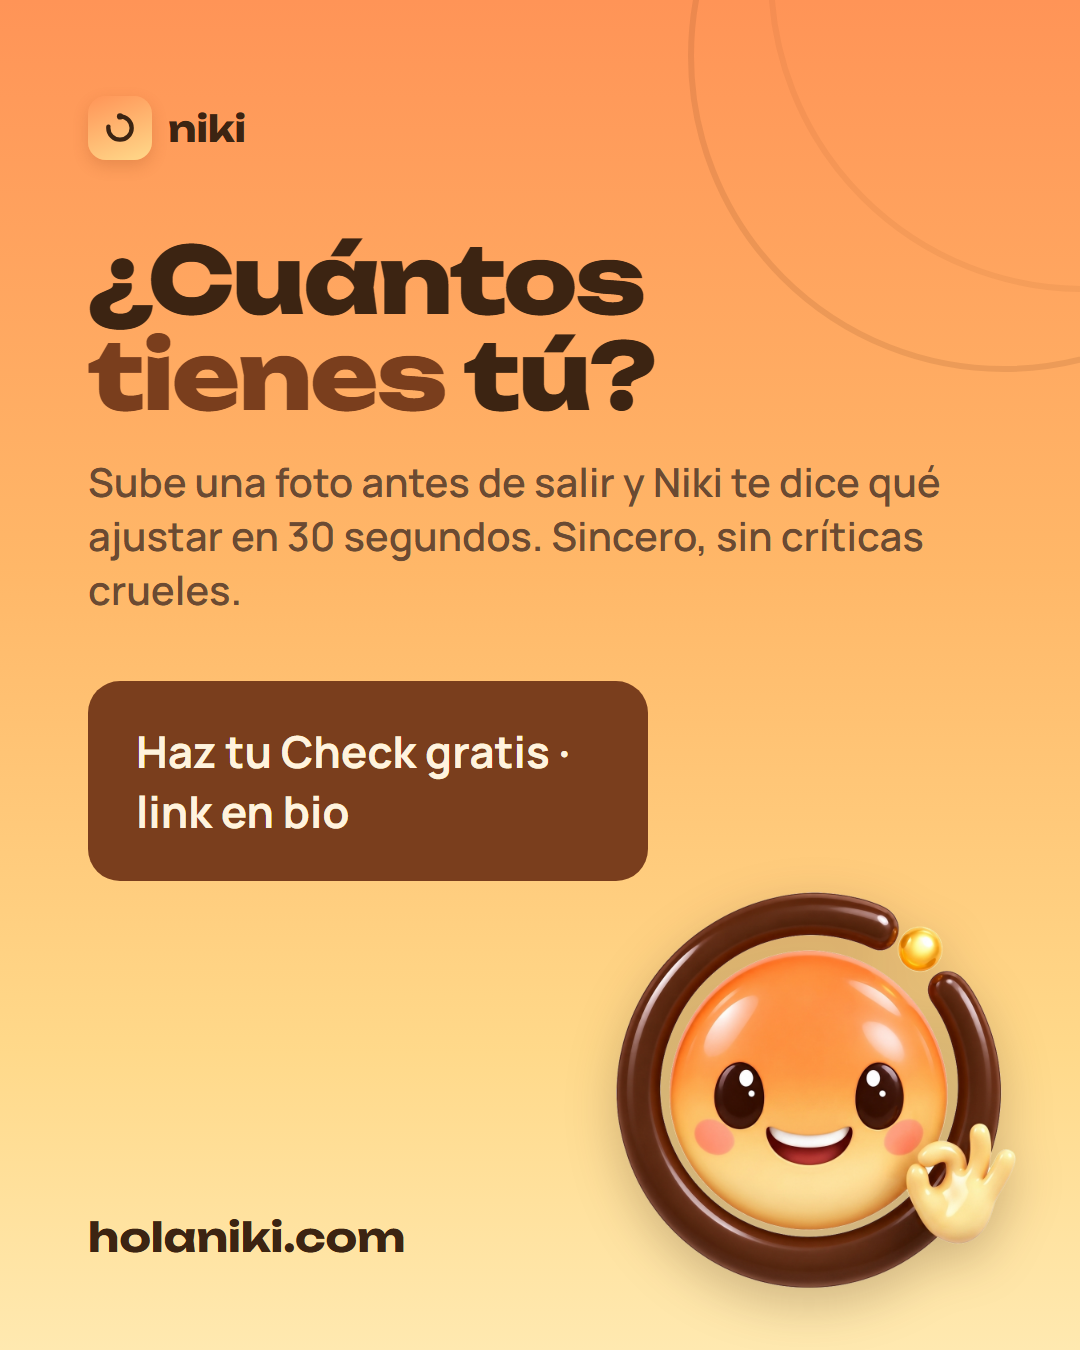
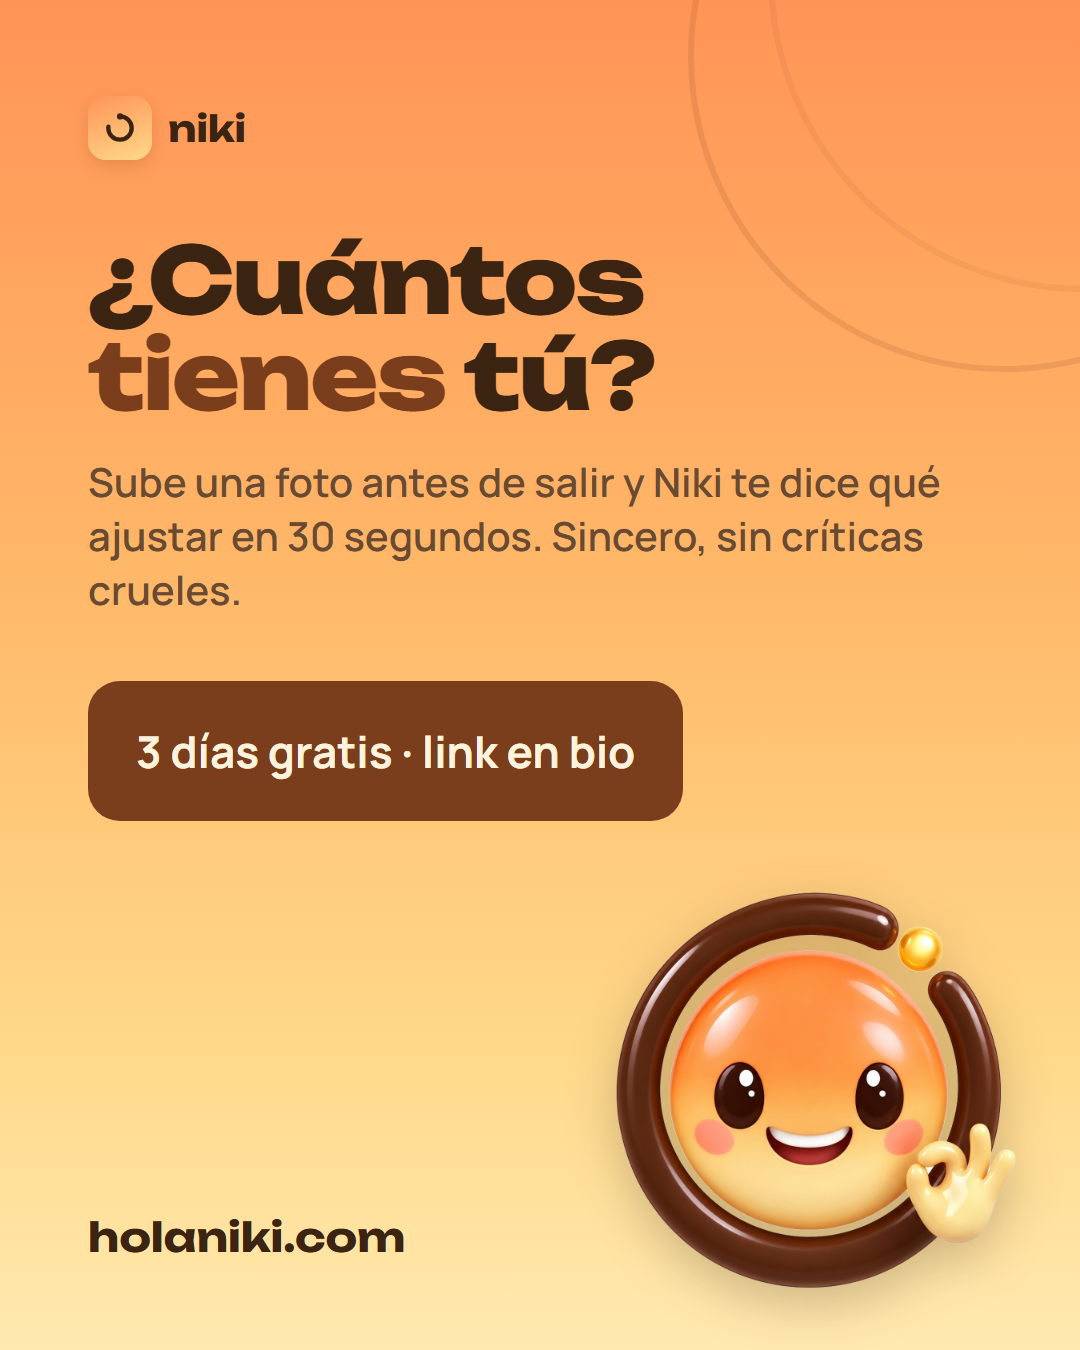
fix: Dia 3 y semana 1 prometen '3 dias gratis' en vez de 'Check gratis' (el Check requiere iniciar la prueba)

Changed region(s): [[0.0611, 0.4978, 0.6417, 0.6533]]

diff --git a/contenido/aviso-previo/aviso-previo.html b/contenido/aviso-previo/aviso-previo.html
@@ -59,7 +59,7 @@
   <span class="etiqueta">Ya estoy aquí</span>
   <h1>¡Ya <em>llegué!</em></h1>
   <p class="sub">Sube tu foto, dime a dónde vas y en <b>30 segundos</b> te digo qué ajustar.</p>
-  <div class="cta">Haz tu Check gratis</div>
+  <div class="cta">Pruébalo 3 días gratis</div>
   <img class="niki" src="niki/niki-celebrando.png" alt="" style="width:480px">
   <p class="pie url" style="color:var(--text)">holaniki.com</p>
 </section>
@@ -89,7 +89,7 @@
   <span class="etiqueta">Ya estoy aquí</span>
   <h1>¡Ya <em>llegué!</em></h1>
   <p class="sub">Sube tu foto, dime a dónde vas y en <b>30 segundos</b> te digo qué ajustar.</p>
-  <div class="cta">Haz tu Check gratis</div>
+  <div class="cta">Pruébalo 3 días gratis</div>
   <img class="niki" src="niki/niki-celebrando.png" alt="">
   <p class="pie url" style="color:var(--text)">holaniki.com</p>
 </section>

diff --git a/contenido/semana-01/carrusel-entrevista.html b/contenido/semana-01/carrusel-entrevista.html
@@ -90,7 +90,7 @@
   <div class="marca"><span class="chip"><svg width="32" height="32" viewBox="0 0 52 52" fill="none"><circle cx="26" cy="26" r="19" stroke="#3C2412" stroke-width="7" stroke-linecap="round" stroke-dasharray="119.4" stroke-dashoffset="28" transform="rotate(-90 26 26)"/><circle cx="26" cy="7.2" r="5" fill="#3C2412"/></svg></span>niki</div>
   <h1>¿Cuántos <em>tienes</em> tú?</h1>
   <p class="sub">Sube una foto antes de salir y Niki te dice qué ajustar en 30 segundos. Sincero, sin críticas crueles.</p>
-  <div class="cta">Haz tu Check gratis · link en bio</div>
+  <div class="cta" style="white-space:nowrap;width:fit-content;max-width:none">3 días gratis · link en bio</div>
   <p class="url" style="position:absolute;left:88px;bottom:88px">holaniki.com</p>
   <img class="niki" src="niki/niki-ok.png" alt="" style="width:400px;bottom:60px">
 </section>

diff --git a/ESTADO.md b/ESTADO.md
@@ -1,5 +1,5 @@
 # ESTADO — Niki (AI Image & Outfit Feedback)
-Última actualización: 2026-10-06 (pre-lanzamiento) | Re-certificación: **73/100 → NO APTO para tráfico PAGADO** (sube de 57; ver "Certificado /100" en Puertas de etapa). Producción = `461f48e`. Hecho hoy: Next 16.3.5→16.4.0 (falla CRÍTICA RCE en next/og) + 0 vulnerabilidades, 404 con marca, kill-switch de IA (`AI_DAILY_BUDGET_USD=0`), índice FK error_log, onboarding y paywall re-revisados → LISTA 36/40·16/20 ambos (2 pasadas), medición anónima del embudo (Vercel Web Analytics + eventos onboarding_inicio / onboarding_resultado / paywall_pago_click — FALTA que el dueño active Analytics en Vercel), auto-QA del embudo en producción (scripts/qa-funnel.mjs). Siguiente: (1) dueño activa Web Analytics en Vercel; (2) programar Día 3 ("¡Ya llegué!") miércoles 7-oct 7 pm (IG+FB Business Suite + TikTok a mano); (3) dueño cambia categoría en IG (Editar perfil → Categoría; si no aparece: cuenta de Empresa), FB (Información → Categorías) y TikTok (app → Configuración → Cuenta → Cuenta de empresa → Categoría) — guía dada 2026-10-06; (4) jueves 8: semana 1 de contenido; (5) para llegar a ≥80 antes de ads: /retener-ingresos (dunning), puente D1-D7 de la prueba (02C), /velocidad (LCP).
+Última actualización: 2026-10-06 (pre-lanzamiento) | Re-certificación: **73/100 → NO APTO para tráfico PAGADO** (sube de 57; ver "Certificado /100" en Puertas de etapa). Producción = `461f48e`. Hecho hoy: Next 16.3.5→16.4.0 (falla CRÍTICA RCE en next/og) + 0 vulnerabilidades, 404 con marca, kill-switch de IA (`AI_DAILY_BUDGET_USD=0`), índice FK error_log, onboarding y paywall re-revisados → LISTA 36/40·16/20 ambos (2 pasadas), medición anónima del embudo (Vercel Web Analytics + eventos onboarding_inicio / onboarding_resultado / paywall_pago_click — FALTA que el dueño active Analytics en Vercel), auto-QA del embudo en producción (scripts/qa-funnel.mjs). Siguiente: (1) dueño activa Web Analytics en Vercel; (2) programar Día 3 ("¡Ya llegué!") miércoles 7-oct 7 pm — CLAIM CORREGIDO 2026-10-06: "Haz tu Check gratis" → "Pruébalo 3 días gratis" (el Check exige iniciar la prueba con tarjeta en Hotmart); también en semana-01 (carrusel lámina 7 + 3 guiones). Re-exportar piezas: node scripts/exportar-aviso.mjs <ids> (IG+FB Business Suite + TikTok a mano); (3) dueño cambia categoría en IG (Editar perfil → Categoría; si no aparece: cuenta de Empresa), FB (Información → Categorías) y TikTok (app → Configuración → Cuenta → Cuenta de empresa → Categoría) — guía dada 2026-10-06; el dueño NO lo encontró → pedirle captura de Editar perfil (IG) y de la Página (FB); (4) jueves 8: semana 1 de contenido; (5) para llegar a ≥80 antes de ads: /retener-ingresos (dunning), puente D1-D7 de la prueba (02C), /velocidad (LCP).
 
 ▶ CIERRE DE SESIÓN 2026-09-22 — TODO GUARDADO Y SUBIDO (working tree limpio, `git push` al día,
 último commit `1abcc6d`). Resumen de lo que se hizo hoy:

diff --git a/contenido/semana-01/GUIONES.md b/contenido/semana-01/GUIONES.md
@@ -33,7 +33,7 @@ videos esta semana (por ejemplo lunes, miércoles y viernes) + el carrusel el do
 | 3 | Captura `resultado.jpg` (zoom al 7.3) | 7.3 de 10 para una cita | "Te da tu puntaje para esa ocasión…" |
 | 4 | Captura `resultado-ejes.jpg` | Outfit · Postura · Actitud | "…y te dice qué ajustar en tu outfit, tu postura y tu actitud." |
 | 5 | Niki celebrando | 3 ajustes. Cero críticas crueles. | "Sincero, pero sin destruirte." |
-| 6 | Niki ok + "holaniki.com" | Haz tu Check gratis · link en bio | "Pruébalo gratis, el link está en mi perfil." |
+| 6 | Niki ok + "holaniki.com" | 3 días gratis · link en bio | "Pruébalo 3 días gratis, el link está en mi perfil." |
 
 **Texto de la publicación:** ¿Tu outfit pasa el vibe check? 👀 Niki califica tu outfit, postura y
 actitud en 30 segundos, según a dónde vas. Sincero, pero sin críticas crueles. Pruébalo gratis:
@@ -52,7 +52,7 @@ link en bio.
 | 2 | Niki pensando | Tú: …¿en serio? | "Pero nadie te dice la verdad sobre cómo te ves, por pena." |
 | 3 | Captura `resultado.jpg` | Hasta que alguien te lo dice en privado | "Yo sí te la digo. En privado, en 30 segundos." |
 | 4 | Captura `resultado-ejes.jpg` | Honesto, sin juzgar tu cara ni tu cuerpo | "Solo lo que puedes cambiar hoy: tu outfit, tu postura y tu actitud." |
-| 5 | Niki saludando + "holaniki.com" | Soy Niki · link en bio | "Soy Niki. Haz tu primer Check gratis, link en mi perfil." |
+| 5 | Niki saludando + "holaniki.com" | Soy Niki · link en bio | "Soy Niki. Pruébame 3 días gratis, link en mi perfil." |
 
 **Texto de la publicación:** Nadie te dice la verdad por pena. Niki sí: en privado, en 30 segundos
 y sin críticas crueles. Solo lo que puedes ajustar hoy. Link en bio.
@@ -74,7 +74,7 @@ Este video está hecho para que te encuentren cuando lo buscan: dura semanas rec
 | 3 | Slide 3 del carrusel | 2 · Hombros atrás al entrar | "Dos: hombros atrás y barbilla nivelada al cruzar la puerta." |
 | 4 | Slide 6 del carrusel | 3 · Primero la formalidad | "Tres: primero la formalidad del lugar, después tu estilo." |
 | 5 | Captura `resultado.jpg` | ¿No sabes si tu look funciona? | "¿No sabes si tu look funciona? Sube tu foto y Niki te lo dice en 30 segundos." |
-| 6 | Niki ok + "holaniki.com" | Check gratis · link en bio | "Link en mi perfil." |
+| 6 | Niki ok + "holaniki.com" | 3 días gratis · link en bio | "Link en mi perfil." |
 
 **Texto de la publicación:** Cómo vestirte para una entrevista de trabajo: 3 ajustes que sí
 cambian cómo te ven. ¿Quieres saber cómo va el tuyo? Niki te lo dice en 30 segundos, link en bio.

diff --git a/contenido/aviso-previo/GUIA.md b/contenido/aviso-previo/GUIA.md
@@ -56,7 +56,7 @@ protagonista.
 > ¡Ya llegué! 🎉
 > Sube tu foto, dime a dónde vas y en 30 segundos te digo qué ajustar en tu outfit, tu postura
 > y tu actitud.
-> Haz tu primer Check gratis: link en mi perfil 🧡
+> Pruébalo 3 días gratis con el plan Anual: link en mi perfil 🧡
 
 **Hashtags:** #glowup #outfit #appdemoda #imagenpersonal #queponerme
 
